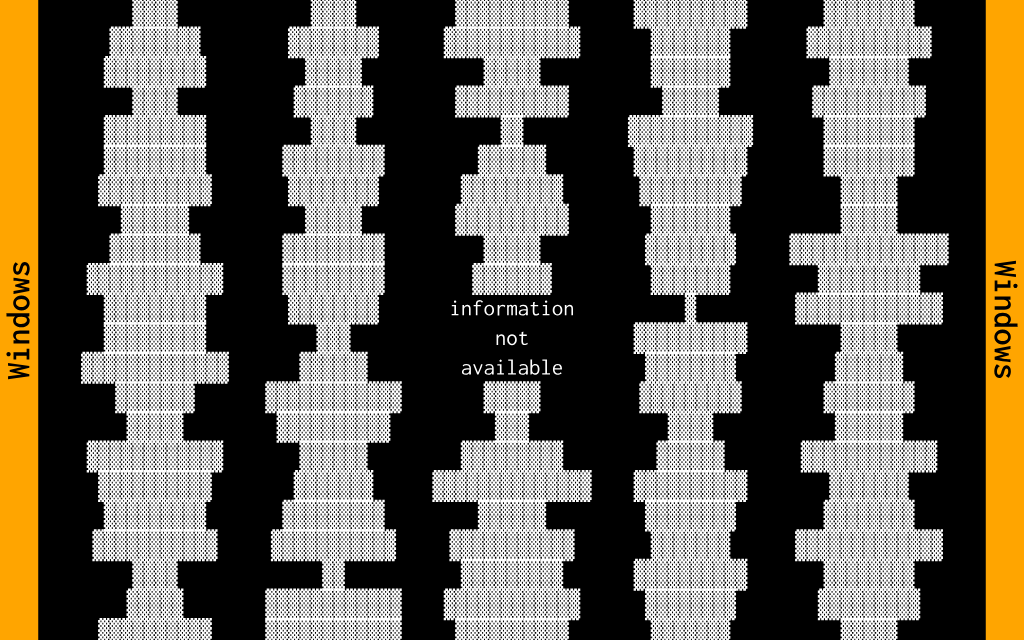
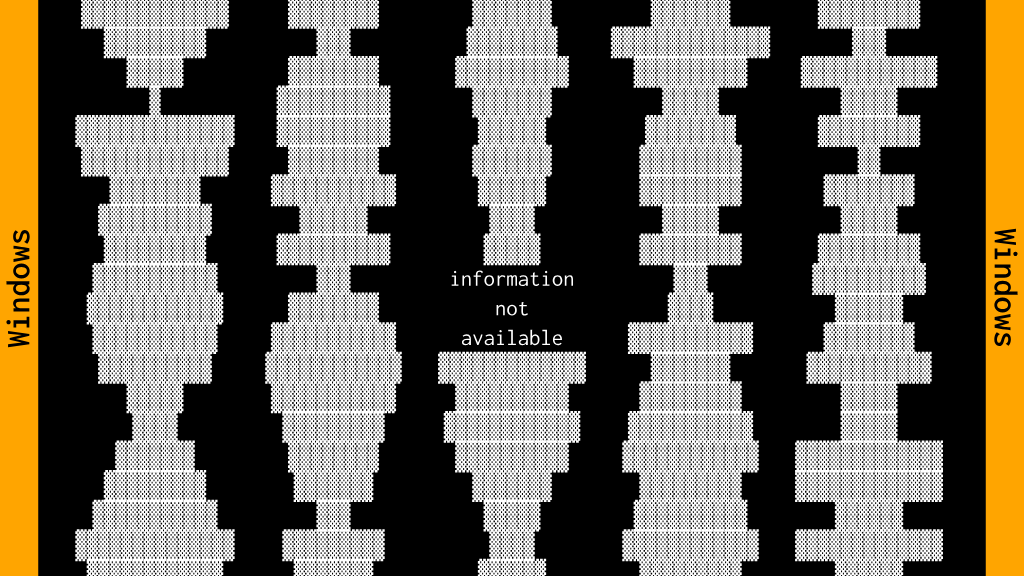
misc updates and changes

diff --git a/code/myriad/redacted_visualizations/sketch.js b/code/myriad/redacted_visualizations/sketch.js
@@ -3,10 +3,10 @@ p5.disableFriendlyErrors = true;
 let inconsolataRegular, inconsolataSemiBold;
 
 const COMPUTER = 0, KINDLE = 1, TABLET = 2, SURFACE = 3, LAPTOP = 4;
-let type = LAPTOP;
+let type = TABLET;
 
 let w = 1024;
-let ratio = type == COMPUTER ? 3/4 : (type == KINDLE ? Math.sqrt(2) : (type == TABLET ? 1.6 : (type == TABLET ? 9/16 : 0.625)));
+let ratio = type == COMPUTER ? 3 / 4 : (type == KINDLE ? Math.sqrt(2) : (type == TABLET ? 1.6 : (type == SURFACE ? 9 / 16 : 0.625)));
 
 let project;
 
@@ -26,29 +26,30 @@ function preload() {
 }
 
 function setup() {
-    createCanvas(w, w*ratio);
+    createCanvas(w, w * ratio);
     pixelDensity(1);
     noLoop();
     noStroke();
 
-    let possibilities = ["macOS", "Windows", "Google Docs", "Adobe Photoshop", "Adobe Illustrator", "Safari", "Facebook", "ChatGPT", "YouTube", "Gmail"];
+    let possibilities = ["macOS", "Google Docs", "Adobe Photoshop", "Adobe Illustrator", "Safari", "Facebook", "YouTube", "Gmail"];
     if (type == KINDLE) possibilities = ["Amazon.se"];
-    if (type == TABLET) possibilities = ["Instagram", "WhatsApp", "iOS"];
+    if (type == TABLET) possibilities = ["Instagram", "WhatsApp", "iOS", "ChatGPT"];
+    if (type == SURFACE) possibilities = ["Windows", "Zoom"];
     project = random(possibilities);
     //project = possibilities[0];
 
-    textSize = max(width, height)/(type == KINDLE ? 22 : 45);
-    titleTextSize = textSize*1.5;
-    lineHeight = textSize*1.3;
-    sideMargin = titleTextSize*1.12;
-    nLines = round(height/lineHeight);
+    textSize = max(width, height) / (type == KINDLE ? 22 : 45);
+    titleTextSize = textSize * 1.5;
+    lineHeight = textSize * 1.3;
+    sideMargin = titleTextSize * 1.12;
+    nLines = 1+round(height / lineHeight);
 
     let marginToGap = 4;
     textFont(inconsolataRegular, textSize);
     columnWidth = textWidth("a".repeat(15));
     nColumns = (type == COMPUTER || type == SURFACE || type == LAPTOP) ? 5 : (type == KINDLE ? 1 : 3);
-    wGap = (width-2*sideMargin-nColumns*columnWidth)/(2*marginToGap+nColumns-1);
-    wMargin = marginToGap*wGap;
+    wGap = (width - 2 * sideMargin - nColumns * columnWidth) / (2 * marginToGap + nColumns - 1);
+    wMargin = marginToGap * wGap;
 }
 
 function draw() {
@@ -56,36 +57,36 @@ function draw() {
 
     fill(type == KINDLE ? "white" : "orange");
     rect(0, 0, sideMargin, height);
-    rect(width-sideMargin, 0, sideMargin, height);
+    rect(width - sideMargin, 0, sideMargin, height);
 
     fill("black");
     textFont(inconsolataSemiBold, titleTextSize);
     textAlign(CENTER, TOP);
 
     push();
-    translate(0, height/2);
-    rotate(-PI/2);
+    translate(0, height / 2);
+    rotate(-PI / 2);
     text(project, 0, 0);
     pop();
 
     push();
-    translate(width, height/2);
-    rotate(PI/2);
+    translate(width, height / 2);
+    rotate(PI / 2);
     text(project, 0, 0);
     pop();
 
     fill("white");
     textFont(inconsolataRegular, textSize);
     textAlign(CENTER, TOP);
-    
+
     let y = 0;
     for (let i = 0; i < nLines; i++) {
-        let x = sideMargin+wMargin+columnWidth/2;
+        let x = sideMargin + wMargin + columnWidth / 2;
         for (let j = 0; j < nColumns; j++) {
             let contributor = "▓".repeat(round(randomTriangle(1, 15)));
-            if (i == ~~(nLines/2-1) && j == ~~(nColumns/2)) contributor = "information";
-            if (i == ~~(nLines/2) && j == ~~(nColumns/2)) contributor = "not";
-            if (i == ~~(nLines/2+1) && j == ~~(nColumns/2)) contributor = "available";
+            if (i == ~~(nLines / 2 - 1) && j == ~~(nColumns / 2)) contributor = "information";
+            if (i == ~~(nLines / 2) && j == ~~(nColumns / 2)) contributor = "not";
+            if (i == ~~(nLines / 2 + 1) && j == ~~(nColumns / 2)) contributor = "available";
             text(contributor, x, y);
 
             x += wGap + columnWidth;
@@ -95,5 +96,5 @@ function draw() {
 }
 
 function randomTriangle(a, b) {
-    return a + (b - a) * (random()-random()+1) / 2;
+    return a + (b - a) * (random() - random() + 1) / 2;
 }

diff --git a/projects/myriad/exhibition.html b/projects/myriad/exhibition.html
@@ -35,7 +35,7 @@
         </div>
         <div class="content">
             <p>
-                <i>myriad</i> expands the notion of authorship, to explicitly unveil and credit the vast communities of coders, artists, inventors and beloved ones that contribute to artworks in the digital age. Behind all software, which permeates society and supports digital art, are vast groups of people who have built layers upon layers of code written over decades.
+                <i>myriad</i> expands the notion of authorship, to explicitly unveil and credit the communities of coders, artists, inventors and beloved ones that contribute to artworks in the digital age. Behind all software, which permeates society and supports digital art, are vast groups of people who have built layers upon layers of code written over decades.
             </p>
 
             <h3>opening hours</h3>
@@ -63,10 +63,10 @@
             <h3>special events</h3>
             <p>
                 - Friday 04/10: private vernissage (18:00-22:00), <a href="./artworks/pain-creature.html">Pain Creature</a> performance (19:00), interactive version of <a href="./artworks/relaxrelaxrelax.html">RELAXRELAXRELAX</a> (18:00-19:30)<br class="list">
-                - Saturday 05/10: <a href="./artworks/pain-creature.html">Pain Creature</a> performance (18:00)<br class="list">
+                - Saturday 05/10: <s><a href="./artworks/pain-creature.html">Pain Creature</a> performance</s> The performance was cancelled due to health reasons and will be replaced by a solo performance by Vincenzo Madaghiele (18:00)<br class="list">
                 - Sunday 06/10: <a href="./symposium.html">symposium</a> (13:00-18:00)<br class="list">
                 - Tuesday 08/10: Drus (Mårten Hillbom & Erik Natanael) performance (18:00)<br class="list">
-                - Saturday 12/10: finissage (16:00-22:00), Drus (Mårten Hillbom & Erik Natanael) performance (<s>17:00</s> 16:00, NB new time), interactive version of <a href="./artworks/relaxrelaxrelax.html">RELAXRELAXRELAX</a> (17:00-19:00)
+                - Saturday 12/10: finissage (16:00-22:00), Drus (Mårten Hillbom & Erik Natanael) performance (<s>17:00</s> 16:00), interactive version of <a href="./artworks/relaxrelaxrelax.html">RELAXRELAXRELAX</a> (17:00-19:00)
             </p>
         </div>
         <div class="footer">

diff --git a/projects/myriad/artworks/pain-creature.html b/projects/myriad/artworks/pain-creature.html
@@ -41,7 +41,7 @@
                 There will be two performances of <i>Pain Creature</i>:
                 <ul>
                     <li>on Friday (04/10), at 19:00</li>
-                    <li>on Saturday (05/10), at 18:00</li>
+                    <li><s>on Saturday (05/10), at 18:00</s> The performance was cancelled due to health reasons and will be replaced by a solo performance by Vincenzo , at the same time.</li>
                 </ul>
                 A recording of a performance will be shown on a screen during the rest of the <a href="../exhibition.html">exhibition</a>.
             </p>
